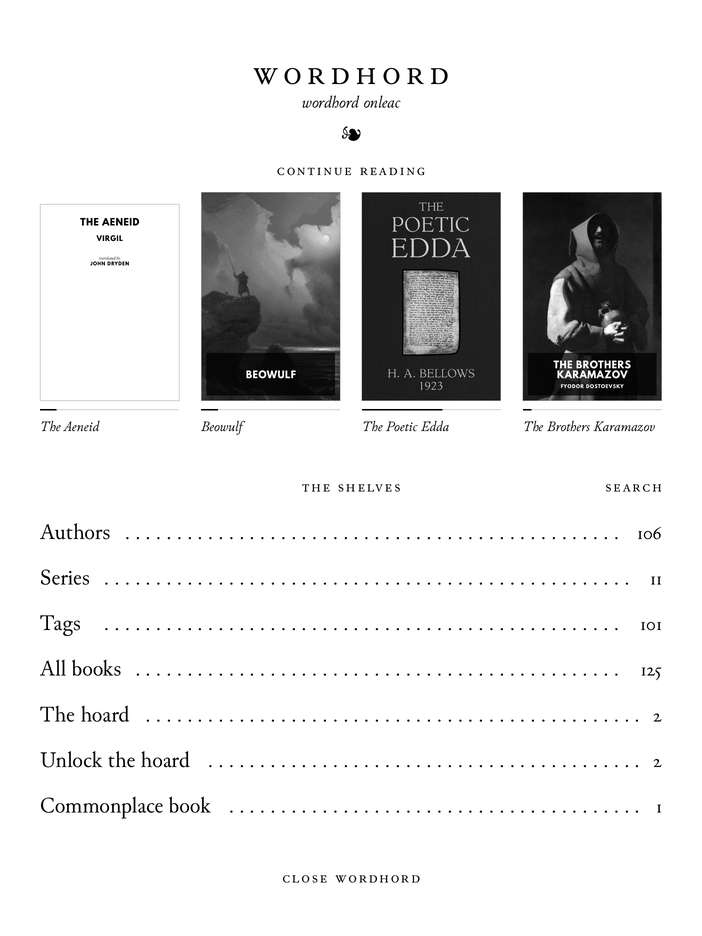
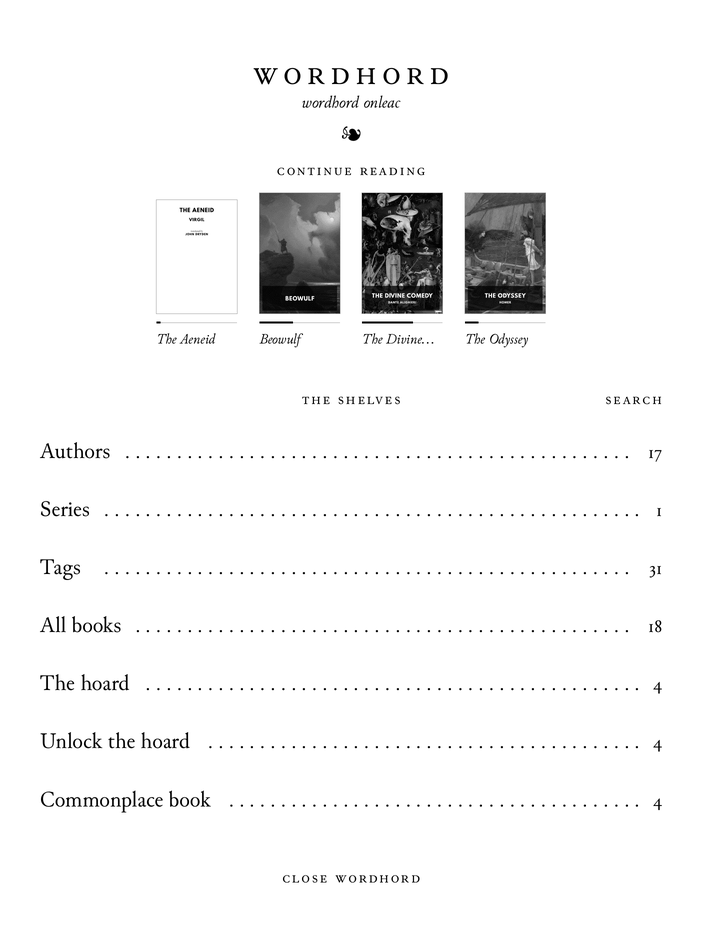
Revise the README, with new screenshots
The page, the etymology trail, words met before, notes on underlines,
the commonplace book, the type screen's key, the Greek keyboard and the
home, from Standard Ebooks' Aeneid. The Libra Colour is supported, and
the manicule points from the top left.

diff --git a/README.md b/README.md
@@ -4,34 +4,72 @@ An opinionated e-reader for Kobos with a pen.
 
 In *Beowulf*, a warden stands on the sea-cliffs and asks the strangers who they are. Beowulf answers him, and the poet says *wordhord onleac*: he unlocked his word-hoard. Wordhord is a reader built around that idea. You read, you keep the words you meet, and you write in the margins.
 
-It runs beside Kobo's own software. You open it from NickelMenu. Nickel pauses while it runs and comes back when you close it. Nothing on the Kobo is replaced.
+Print spent five hundred years learning how to set a page, gloss a word and make room for a reader's hand. E-readers kept little of it. Wordhord puts it back.
 
 <p>
-<img src="docs/page.png" width="32%" alt="A page of Dryden's Aeneid, with a passage underlined, a word ringed in ink and a tick in the margin">
-<img src="docs/lookup.png" width="32%" alt="The same page, with the word 'bear' looked up in a panel at the foot">
-<img src="docs/home.png" width="32%" alt="The library's home: four books being read, then the shelves, the hoard and the commonplace book">
+<img src="docs/page.png" width="32%" alt="A page of Dryden's Aeneid: two passages underlined, one with a sideline for its note, a word ringed in ink, a tick in the margin, a ribbon hanging from the top, and a pointing hand at the top left">
+<img src="docs/lookup.png" width="32%" alt="The word 'temple' looked up in a panel at the foot, its etymology naming Old English templ and Latin templum, each underlined to follow">
+<img src="docs/commonplace.png" width="32%" alt="The book's page in the commonplace book: four passages, one with a typed note after a pilcrow, one with a handwritten note under it">
 </p>
 
-## What it does
+It runs beside Kobo's own software. You open it from NickelMenu. Nickel pauses while it runs and comes back when you close it. Nothing on the Kobo is replaced.
 
-**Sets pages like a book.** Wordhord has its own typesetter. It breaks lines the way TeX does, a whole paragraph at a time. Figures are old-style. Verse keeps its lines. There are five faces, each marked with the languages it can set: European, Latin, Greek with its accents, Old English, Old Norse; and sizes named as printers named them, long primer to great primer.
+## The page
 
-**Looks up any word you tap.** The dictionary is Wiktionary, offline, and it knows inflected forms: tap *mǫgu* and get *mǫgr*. English, Latin, Ancient Greek, Old English and Old Norse so far. Accents and long marks needn't match, and Latin's *-que* comes off: tap *virumque* and get *vir*. Etymologies lead on: from *hate*, tap Old English *hatian* and it opens too.
+**Set like a book.** Wordhord has its own typesetter. It breaks lines the way TeX does, a whole paragraph at a time, so the spacing stays even. Kobo's own reader and KOReader fill one line at a time. Figures are old-style. Small caps are real small caps. Verse keeps its lines.
 
-**Keeps the words you hoard.** One tap keeps a word with the sentence you found it in. *Unlock the hoard* brings them back as cards, spaced out the way Anki spaces them, so they stay. A word you're still learning has a faint dotted line under it wherever you meet it again, and its entry says where you first did.
+**Type, chosen against a specimen.** Five faces, each marked with what it can set: *eur* for the languages of Europe, *lat* for Latin's long vowels, *gk* for Greek with its accents and breathings, *oe* for Old English, *on* for Old Norse. A key above the faces spells them out. Sizes have the printers' old names, long primer to great primer. A measure that can't make the line any narrower on your screen is set in grey.
 
-**Underlines.** Hold a word until it turns grey, drag, and lift. A loupe above your finger shows the word your fingertip hides. Every underline goes into a commonplace book, by book and by day, and you can search it.
+<p>
+<img src="docs/detail.png" width="66%" alt="A close view of the page: an underline with a sideline beside it, a ring of ink round 'venerable', a tick in the margin, and faint dotted lines under 'omen' and 'brazen', words kept in the hoard">
+<img src="docs/type.png" width="32%" alt="The type screen: a specimen passage, then the faces with their language tags and the key open above them, then size, measure, leading and setting">
+</p>
 
-**Writes with the pen.** The pen only writes. A full stop is a full stop, never a page turn. Ink belongs to the words it was written by, so it moves with them when you change the type. The other end of the stylus rubs out. Hold its button and a stroke under a line underlines it. Hold an underline and *write* puts a note in your own hand on it. While the pen is near, your hand can rest on the page. A manicule, ☚, tells you so.
+## Words
 
-**Searches.** A book, the library, the commonplace book. The keyboard's top row has the old letters, a language at a time: Old English, Old Norse, Latin's long vowels, or Greek, which turns the whole alphabet Greek.
+**Tap a word and Wiktionary answers.** Offline, from packs built from Wiktionary. It knows inflected forms: tap *mǫgu* and get *mǫgr*, tap *ἀνθρώπων* and get *ἄνθρωπος*. English, Latin, Ancient Greek, Old English and Old Norse so far. Accents and long marks needn't match. Latin's *-que* comes off: tap *virumque* and get *vir*.
+
+**Follow a word back.** An etymology names a word's ancestors. Where Wordhord has a dictionary for the ancestor's language, the word is underlined, and a tap opens it. *Temple* leads to Latin *templum*, and *templum* on to Old Norse *þǫmb*. *‹ temple* takes you back. Tap your way down a word's whole line.
+
+**Keep the words you meet.** One tap hoards a word with the sentence you found it in. *Unlock the hoard* brings them back as cards, spaced the way Anki spaces them, so they stay.
+
+**Meet them again.** A word you're still learning has a faint dotted line under it wherever it turns up, in any book, in any of its forms. Tap it, and its entry says where you first met it. Once you know a word, the line goes. Forget it, and the line comes back.
+
+<p>
+<img src="docs/trail.png" width="32%" alt="The panel after following templum: the Latin entry, with '‹ temple' at the top to go back, and its own etymology leading on to Old Norse">
+<img src="docs/met.png" width="32%" alt="The next page: 'fierce', a word kept in the hoard, looked up; the entry begins 'Met before, in The Aeneid' with the line it was kept from">
+<img src="docs/unlock.png" width="32%" alt="Unlocking the hoard: the word 'presage' in its line from the Aeneid, its definition, and four grades from again to easy">
+</p>
+
+## The pen
+
+**The pen only writes.** A full stop is a full stop, never a page turn. While the pen is near, your hand can rest on the page, and a pointing hand, ☛, at the top left says so. The other end of the stylus rubs out.
+
+**Ink belongs to its words.** Each stroke is kept with the words it was written by. Change the type and the ink moves with them.
+
+**Underline by hand.** Hold a word until it turns grey, drag, and lift. A loupe above your finger shows the word your fingertip hides. Or hold the pen's button and draw under a line.
+
+**Notes on underlines.** Hold an underline for its card. *Note* types one on ruled lines. *Write* takes one in your own hand. Either way, a sideline in the margin marks it. Like a sticky note, but kept with its passage, and in your hand if you like.
+
+<p>
+<img src="docs/card.png" width="32%" alt="An underline held: its card shows the handwritten note 'cf. VI' over the choices note, write, remove underline and look up">
+<img src="docs/keyboard.png" width="32%" alt="Searching the book with the keyboard in Greek: the accented vowels on the top row, the Greek alphabet below">
+<img src="docs/home.png" width="32%" alt="The library's home: four books being read, the shelves, the hoard with four words, and the commonplace book">
+</p>
+
+## Everything else
+
+**The commonplace book.** Every underline gathers there, by book and by day, with its notes, typed or written. Ink from the page is there too, under the line it was written by. Search it. Open it from the library, or from a book's contents.
+
+**Search.** A book, the library, the commonplace book. The keyboard's top row has a language's own letters: Old English, Old Norse, Latin, or Greek, which turns the whole keyboard Greek.
+
+**Ribbons.** Tap the top right corner and a ribbon hangs into the margin, forked like a hardback's silk.
 
 **Sleeps under a painting.** Knud Baade's *Scene from the Era of Norwegian Sagas* (1850): the warden on his cliff.
 
-**Keeps your notes as plain files.** Words kept, underlines and ink go into logs in the app's folder, one record a line. Nothing is ever overwritten. Support in [Kollate](https://github.com/andrew-lawlor/kollate), to read them on the desktop, is under way.
+**Keeps your notes as plain files.** Words kept, underlines, notes and ink go into logs in the app's folder, one record a line. Nothing is ever overwritten. Support in [Kollate](https://github.com/andrew-lawlor/kollate), to read them on the desktop, is under way.
 
 <p>
-<img src="docs/unlock.png" width="32%" alt="Unlocking the hoard: the word 'presage' in its line from the Aeneid, its definition, and four grades from again to easy">
 <img src="docs/sleep.png" width="32%" alt="The sleep screen: Baade's warden on a sea-cliff under a stormy moon, with WORDHORD over the sky">
 </p>
 
@@ -41,7 +79,7 @@ No store, no account, no cloud. No copy and paste, since a Kobo has no clipboard
 
 ## Status
 
-Early, and in daily use on a Kobo Elipsa 2E, the only device it has been tested on. Other Kobos with a pen should work but haven't been tried. EPUB only, and DRM-free: books bought from the Kobo store are locked to Kobo's own reader, and stay there. Wordhord counts them at the foot of *All books*, so you know they weren't lost. [SPEC.md](SPEC.md) says what's done, what's next, and why.
+Early, and in daily use on a Kobo Elipsa 2E and a Kobo Libra Colour. Other Kobos with a pen should work but haven't been tried. EPUB only, and DRM-free: books bought from the Kobo store are locked to Kobo's own reader, and stay there. Wordhord counts them at the foot of *All books*, so you know they weren't lost. [SPEC.md](SPEC.md) says what's done, what's next, and why.
 
 ## Install
 
@@ -61,7 +99,7 @@ Dictionary packs are built from [kaikki.org](https://kaikki.org/)'s extracts of 
 cargo run -q --bin wordhord -- dictionary non.jsonl non non.sqlite
 ```
 
-Packs go in `.adds/wordhord/dictionaries/` on the Kobo. `scripts/package-kobo.sh` takes any it finds in `~/.cache/wordhord-tools/kaikki/`.
+Packs go in `.adds/wordhord/dictionaries/` on the Kobo. `scripts/package-kobo.sh` takes any it finds in `~/.cache/wordhord-tools/kaikki/`. They're large: Latin is about 500 MB, English about 330 MB. Take only the ones you read.
 
 To try Wordhord on the desktop, with any folder of EPUBs as its library:
 
@@ -82,6 +120,8 @@ cargo run -q --bin wordhord -- align books/edda-pettit
 
 Wordhord is free software under the [GNU GPL, version 3](LICENSE).
 
-It draws the screen with [FBInk](https://github.com/NiLuJe/FBInk), by NiLuJe. Its faces are Junicode, EB Garamond, Cardo, Literata and Atkinson Hyperlegible, all under the SIL Open Font License; see [fonts/README.md](fonts/README.md). The dictionaries come from Wiktionary, under CC BY-SA. The sleep screen is made from a photograph of Baade's painting, CC BY-SA 3.0; see [art/README.md](art/README.md). The editions in `books/` carry their own licences; see [books/README.md](books/README.md).
+It draws the screen with [FBInk](https://github.com/NiLuJe/FBInk), by NiLuJe. Its faces are Junicode, EB Garamond, Cardo, Literata and Atkinson Hyperlegible, all under the SIL Open Font License; see [fonts/README.md](fonts/README.md). The dictionaries come from Wiktionary, under CC BY-SA. Greek and Latin are hyphenated by TeX's own patterns; see [crates/wordhord-typeset/hyphenation/README.md](crates/wordhord-typeset/hyphenation/README.md). The sleep screen is made from a photograph of Baade's painting, CC BY-SA 3.0; see [art/README.md](art/README.md). The editions in `books/` carry their own licences; see [books/README.md](books/README.md).
+
+The screenshots show [Standard Ebooks](https://standardebooks.org/)' editions of Dryden's *Aeneid* and other books in the public domain. Their careful work is worth your support.
 
 Much of how Wordhord talks to a Kobo was learned from [KOReader](https://github.com/koreader/koreader).
